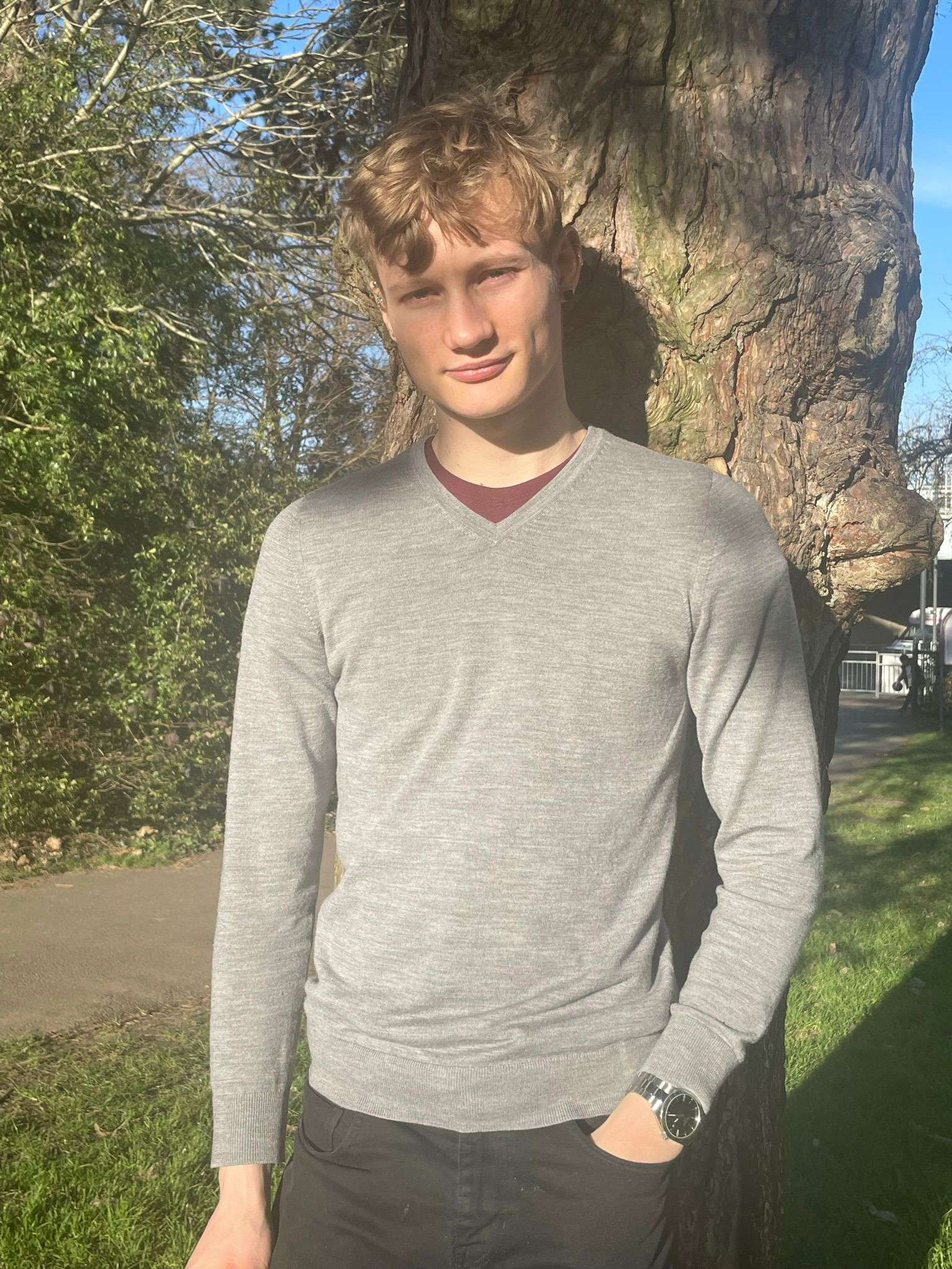
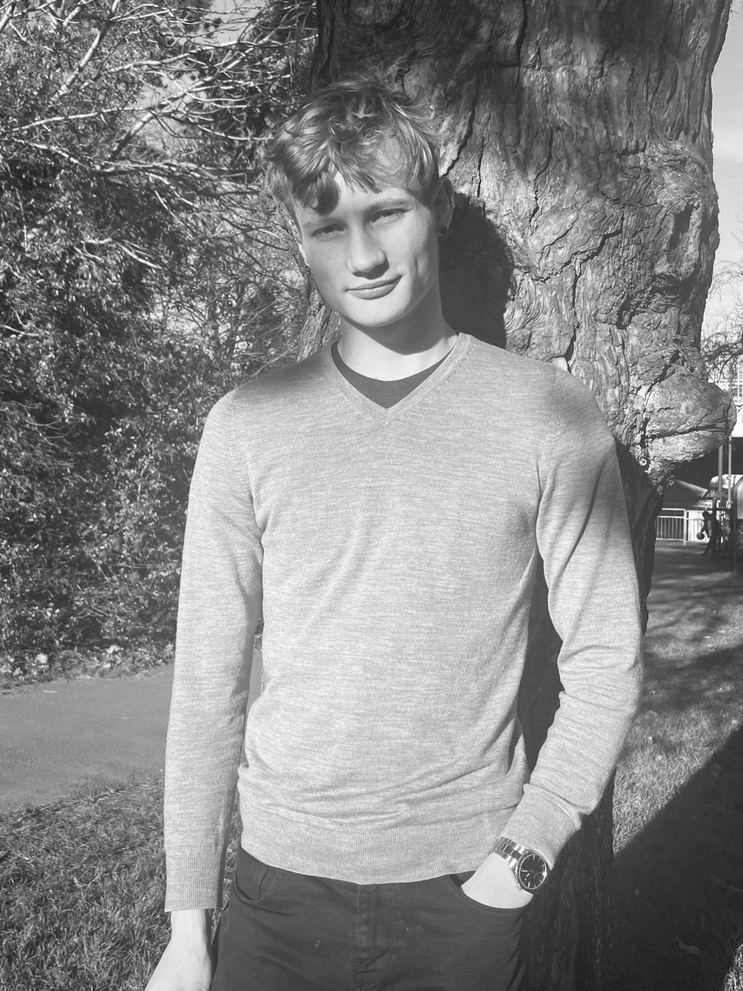
new images, more parallax

diff --git a/index.html b/index.html
@@ -28,28 +28,27 @@
 		header.classList.toggle('sticky', isNearTop && window.pageYOffset > 0);
 	});
 
-	// window.addEventListener('scroll', function () {
-	// 	const parallax = document.querySelector('.about-img');
-	// 	let scrollPosition = window.pageYOffset;
 
-	// 	if (scrollPosition < 1000) {
-	// 		parallax.style.transform = 'translateY(' + scrollPosition * .5 + 'px)';
-	// 	}
-	// });
 
-	//above function but stopping after scrolling to the top of gallery
 	window.addEventListener('scroll', function () {
 		const parallax = document.querySelector('.about-img');
 		let scrollPosition = window.pageYOffset;
 
 		if (scrollPosition < 1000) {
-			parallax.style.transform = 'translateY(' + scrollPosition * .5 + 'px)';
+			parallax.style.transform = 'translateY(' + scrollPosition * -.3 + 'px)';
+		}
+	});
+
+	window.addEventListener('scroll', function () {
+		const parallax = document.querySelector('.details-img');
+		let scrollPosition = window.pageYOffset;
+
+		if (scrollPosition < 1000) {
+			parallax.style.transform = 'translateY(' + scrollPosition * .2 + 'px)';
 		}
 	});
 
 	
-
-
 
 </script>
 
@@ -74,21 +73,40 @@
 	<main>
 		<div id="top">
 			<section class="about">
-					  <div class="about-img">
-						<img src="img/mono2.jpg" alt="Head image"> 
-						</div>
-					  <div class="about-text">
-						<h2>About Me</h2>
-						<p>My name and such and such</p>
-					  </div>
-					</div>
-				  </div>
+				<div class="about-img">
+					<img src="img/mono2.jpg" alt="Head image">
 				</div>
-			  </section>
-			  <div class="about-break">
+				<div class="about-text">
+					<h2>About Me</h2>
+					<p>My name and such and such</p>
+				</div>
+		</div>
+		</div>
+		</div>
+		</section>
+		<div class="about-break">
+		</div>
 
-			  			  
-		  </div>
+		<section class="details">
+
+			<div class="details-item">
+				<h3>Height</h3>
+				<p>6'2" / 187cm</p>
+				<h3>Weight</h3>
+				<p>138lbs / 63kg</p>
+				<h3>Shoe Size</h3>
+				<p>10</p>
+				<h3>Eye Color</h3>
+				<p>Blue</p>
+				<h3>Hair Color</h3>
+				<p>Dirty/Ash blonde</p>
+			</div>
+			<div class="details-img">
+				<img src="img/mono.jpg" alt="Details image">
+			</div>
+		</section>
+
+
 
 		<section id="gallery">
 			<h2>Gallery</h2>

diff --git a/stylesheet.css b/stylesheet.css
@@ -15,7 +15,7 @@ header {
   align-items: center;
   justify-content: space-between;
   border-bottom: 2px solid black;
-  z-index: 1;
+  z-index: 99;
 }
 
 .sticky {
@@ -140,6 +140,7 @@ h2 {
 
 
 .gallery-container {
+  background-color: whit;
   display: grid;
   grid-template-columns: repeat(3, 1fr);
   grid-gap: 20px;
@@ -150,11 +151,14 @@ h2 {
   width: 100%;
   height: 100%;
   object-fit: cover;
-  /* Crop the image to fill the container */
+  border-radius: 10px;
 }
 
+#gallery {
+  background-color: white;
+}
 #gallery h2 {
-  padding-top: 140px;
+  padding-top: 50px;
 }
 
 form label {
@@ -185,7 +189,7 @@ form input[type="submit"] {
 /* Styling for the about section */
 .about {
   display: grid;
-  grid-template-columns: 1fr 0.5fr;
+  grid-template-columns: 1.5fr 1fr;
   align-items: center;
   font-family: 'Helvetica Neue', sans-serif;
 }
@@ -194,10 +198,11 @@ form input[type="submit"] {
   width: 100%;
   height: 100%;
   object-fit: cover;
-  z-index: -1;
+  z-index: -2;
 }
 
 .about-text {
+  background-color: white;
   text-align: right;
 }
 
@@ -205,7 +210,46 @@ form input[type="submit"] {
   width: 100%;
   height: 100%;
   object-fit: cover;
+  border-radius: 10px;
 }
+
+.about-break {
+  width: 100%;
+  height: 25px;
+  background-color: white;
+}
+
+.details {
+  display: grid;
+  grid-template-columns: 1fr 2fr;
+  align-items: center;
+  font-family: 'Helvetica Neue', sans-serif;
+}
+
+.details-img {
+  width: 100%;
+  height: 100%;
+  object-fit: cover;
+  background-color: white;
+  margin-top: -100px
+}
+
+.details-item {
+  text-align: left;
+  background-color: white;
+}
+
+.details-img img {
+  width: 100%;
+  height: 100%;
+  object-fit: cover;
+  background-color: white;
+  z-index: -1;
+  border-radius: 10px;
+
+
+}
+
 
 
 
@@ -254,6 +298,7 @@ footer p {
   .gallery-container {
     grid-template-columns: repeat(2, 1fr);
   }
+
 }
 html {
   scroll-behavior: smooth;
